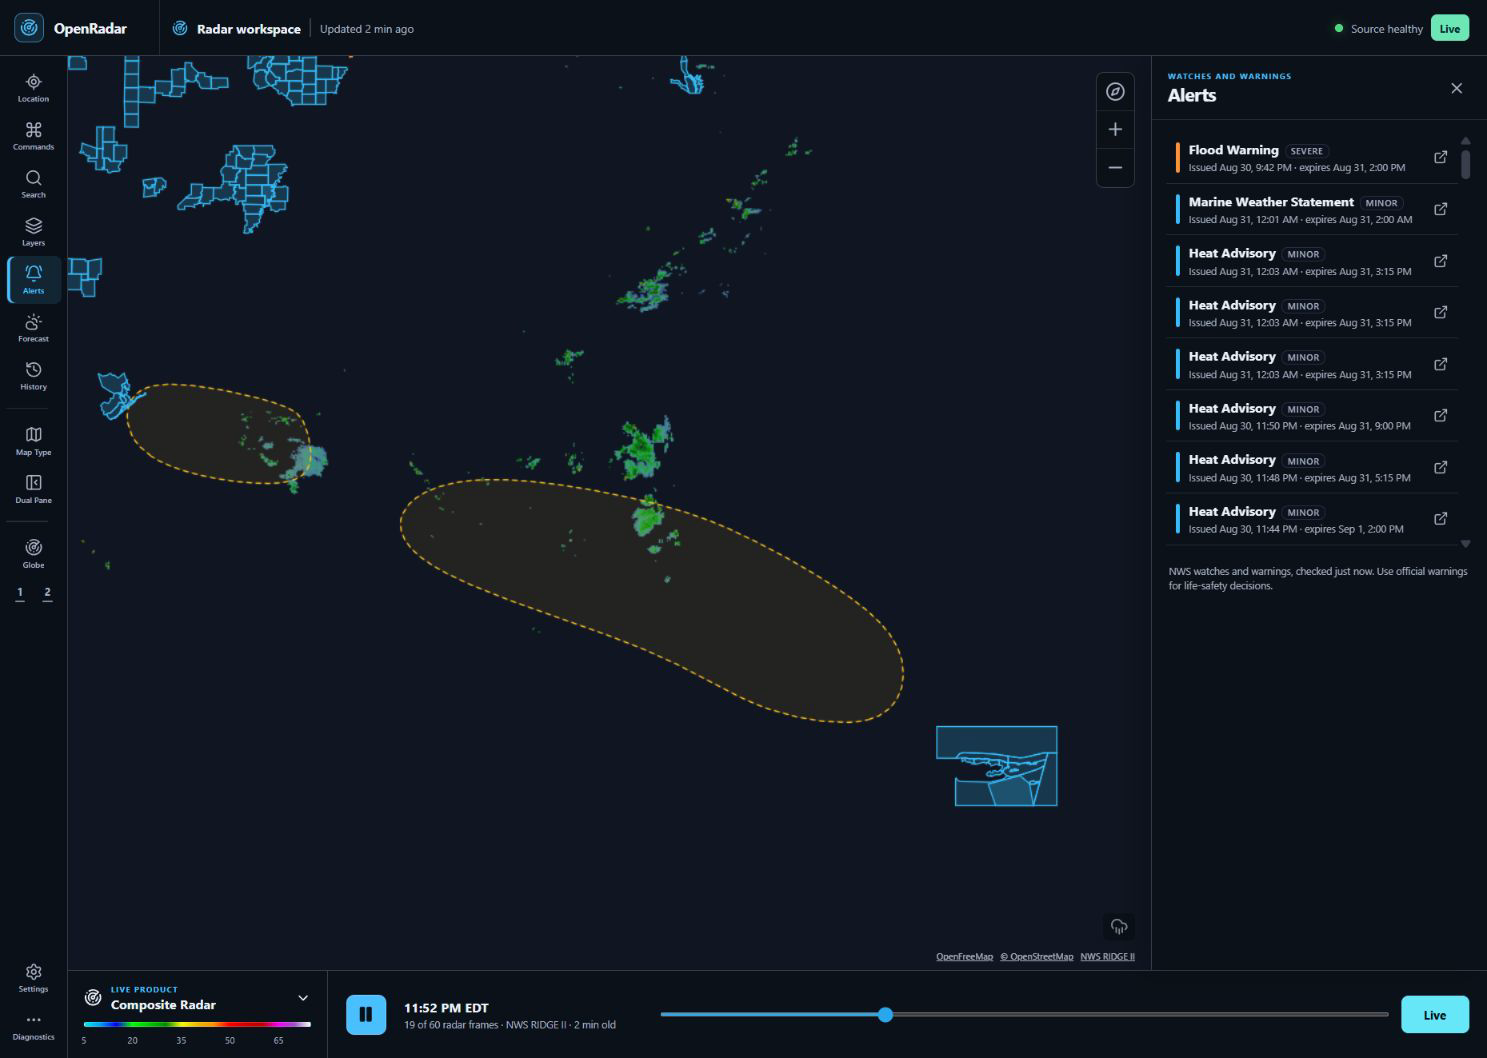
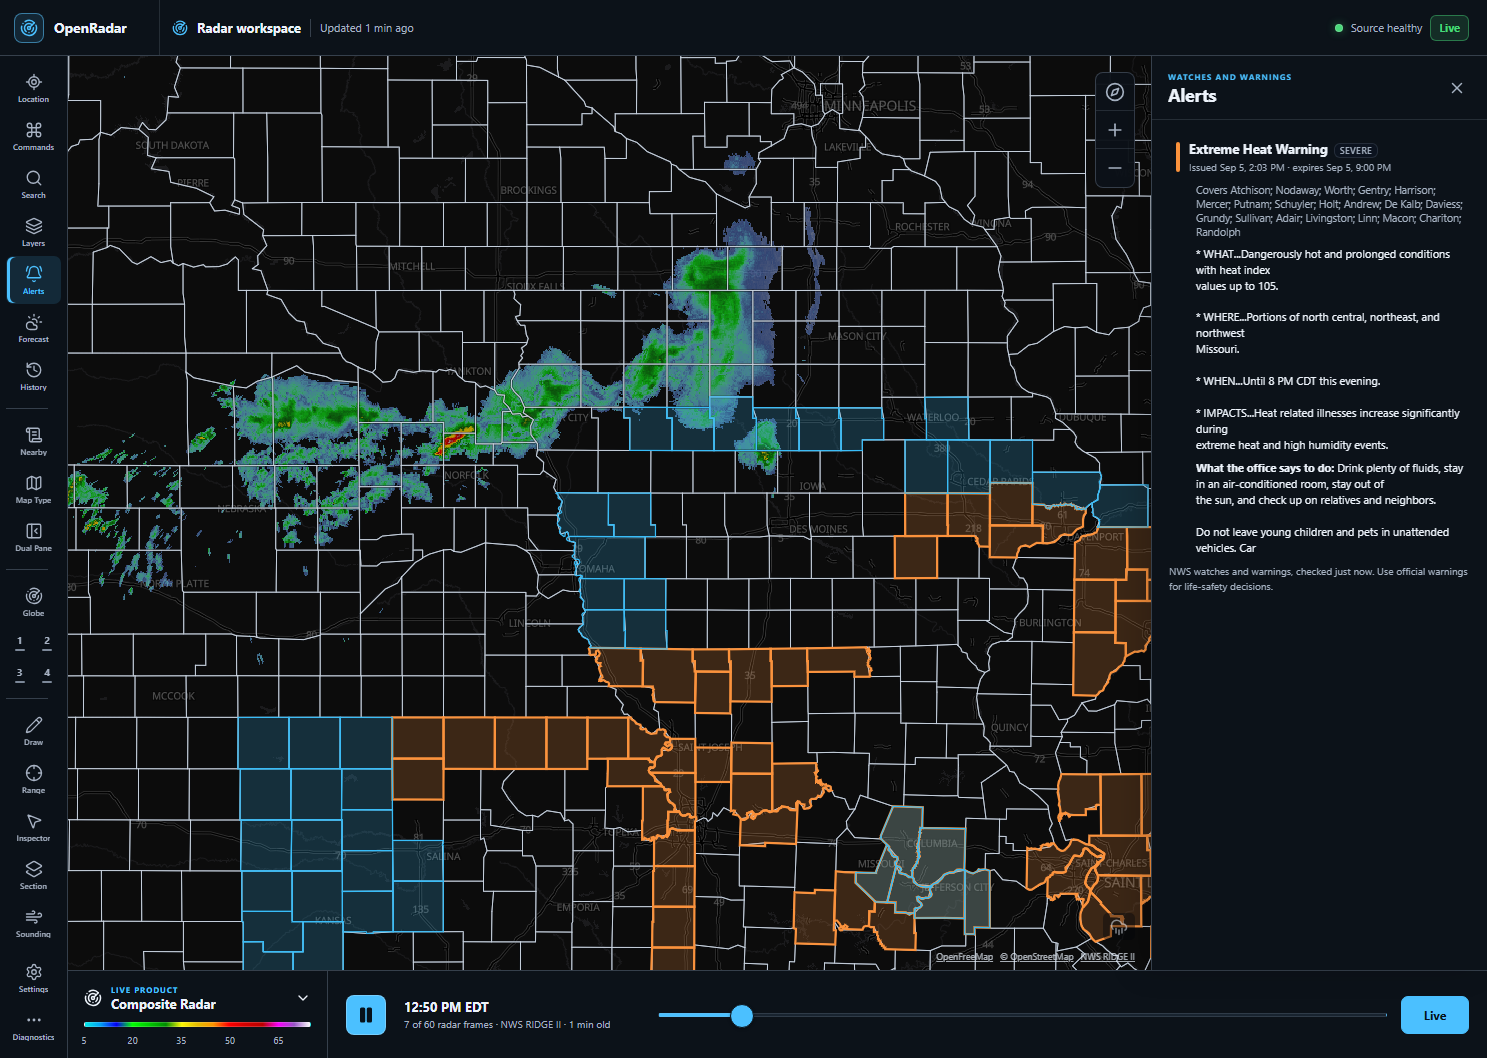
Re-take the README picture, and write down how
The one in the repo was from 2026-08-31 and showed an app that no longer
exists: before the light-theme repairs, before French, before the rail
rework and the accent changes. A first reader was looking at the wrong
product.

The capture is a run rather than a habit now, so the next visual change
can re-take it in one command instead of somebody remembering how it was
framed: the same camera over Des Moines, north up, at the width the
layout questions are already asked at, with the greeting suppressed
before the app loads rather than clicked out of the way.

It is the one thing in the end-to-end suite that does not stub the
services, and it has to be. Taken the way the rest of the suite runs,
the picture is a black rectangle where the map should be: no basemap, no
mosaic, and a stale-frame warning across the bottom. A screenshot of an
app with no map in it is worse than an out-of-date one, because it looks
deliberate. So it runs against the live services, and it refuses to
write a file whose map came out one flat colour.

Skipped unless asked for, because it writes a committed file and the
weather underneath is different every time.

diff --git a/e2e/screenshot.spec.ts b/e2e/screenshot.spec.ts
@@ -1,0 +1,102 @@
+import { expect, test } from "@playwright/test";
+
+/**
+ * The picture the README leads with, taken the same way every time.
+ *
+ * It had been captured by hand once and then went stale: the file in the repo
+ * predated the light-theme repairs, French, the rail rework and the accent
+ * changes, and a first reader was looking at an app that no longer existed.
+ * Written down as a run rather than a habit, so the next visual change can
+ * re-take it in one command instead of somebody remembering how it was framed.
+ *
+ * Skipped unless asked for. It writes a committed file, which is not something
+ * an ordinary suite run should do, and the map underneath is live weather: a
+ * pixel comparison would fail on the sky.
+ *
+ * It is also the one thing here that does NOT stub the services. The rest of
+ * the suite routes them so a run is deterministic, and a picture taken that
+ * way is a picture of a black rectangle where the map should be: no basemap
+ * tiles, no mosaic, and a stale-frame warning across the bottom. A screenshot
+ * of an app with no map in it is worse than an out-of-date one, because it
+ * looks deliberate.
+ *
+ *     OPENRADAR_SHOOT=1 npx playwright test e2e/screenshot.spec.ts --project=chromium
+ */
+const WANTED = Boolean(process.env.OPENRADAR_SHOOT);
+
+/** What the README's alt text describes, and what the listing points at. */
+const SHOT = "assets/screenshots/openradar-main.png";
+
+/** How long the live basemap and the mosaic are given to arrive. */
+const TILES_MS = 8_000;
+
+test.describe("the README's picture", () => {
+  test.skip(!WANTED, "set OPENRADAR_SHOOT=1 to re-take it");
+  // The width the layout questions are asked at, and the shape the listing
+  // and the README were written around.
+  test.use({ viewport: { width: 1487, height: 1058 } });
+
+  test("is the dark workspace with the alerts panel open", async ({ page }) => {
+    // The greeting and the first-run hints are for a first run, and this is
+    // not one. Written before the app loads rather than dismissed after, so
+    // nothing has to be clicked out of the way of the picture.
+    await page.addInitScript(() => {
+      window.localStorage.setItem(
+        "openradar.settings",
+        JSON.stringify({
+          schemaVersion: 2,
+          seenWelcome: true,
+          seenReveal: true,
+          layers: { counties: true },
+        }),
+      );
+    });
+    // Des Moines, north up, at a zoom where the mosaic and the county lines
+    // both read: the same camera every time, so two captures differ by what
+    // changed in the app rather than by where somebody had panned to.
+    await page.goto("/?lon=-93.7&lat=41.7&zoom=6&bearing=0&pitch=0");
+    await expect(page.getByRole("application")).toBeVisible();
+
+    await page.getByRole("button", { name: "Alerts", exact: true }).click();
+    await expect(page.locator(".surface-panel")).toBeVisible();
+
+    // The map has to have arrived. A capture taken while the basemap is still
+    // coming down is the black rectangle this was written to stop shipping.
+    await expect(page.locator(".maplibregl-canvas")).toBeVisible();
+    await page.waitForTimeout(TILES_MS);
+    const drawn = await page.evaluate(() => {
+      const canvas =
+        document.querySelector<HTMLCanvasElement>(".maplibregl-canvas");
+      if (!canvas) return 0;
+      const shrunk = document.createElement("canvas");
+      shrunk.width = 64;
+      shrunk.height = 64;
+      const context = shrunk.getContext("2d");
+      if (!context) return 0;
+      context.drawImage(canvas, 0, 0, 64, 64);
+      const { data } = context.getImageData(0, 0, 64, 64);
+      const shades = new Set<string>();
+      for (let at = 0; at < data.length; at += 4) {
+        shades.add(`${data[at]},${data[at + 1]},${data[at + 2]}`);
+      }
+      return shades.size;
+    });
+    expect(
+      drawn,
+      "the map is one flat colour, so the tiles never arrived",
+    ).toBeGreaterThan(20);
+
+    await page.screenshot({ path: SHOT });
+
+    // A capture of a window that never finished laying out is worse than a
+    // stale one, because it looks deliberate.
+    const room = await page.evaluate(() => ({
+      width: window.innerWidth,
+      height: window.innerHeight,
+      sideways:
+        document.documentElement.scrollWidth -
+        document.documentElement.clientWidth,
+    }));
+    expect(room).toEqual({ width: 1487, height: 1058, sideways: 0 });
+  });
+});

diff --git a/ROADMAP.md b/ROADMAP.md
@@ -130,13 +130,6 @@ Added by the 2026-09-02 research pass (`RESEARCH.md` of the same date carries th
   Acceptance: Every key in `en.ts` has a German string; the clipping test passes in German at 1024x720; a German reader gets km/h, °C and comma decimals by default; the README and listings name four languages.
   Complexity: L
 
-- [ ] AUD-200 (P3): Re-capture the README screenshot
-  Why: `assets/screenshots/openradar-main.png` is from 2026-08-31 and predates the light-theme repairs, French, the rail rework, the dark form controls and the accent changes described in the 0.8.0 changelog; a stale picture misleads the first reader.
-  Evidence: `git log -1 -- assets/screenshots` (2026-08-31, "Rebuild the weather workspace around the map"); `CHANGELOG.md` 0.8.0 visual entries.
-  Touches: `assets/screenshots/openradar-main.png`, `README.md` alt text, `docs/listings.json` screenshot reference.
-  Acceptance: A fresh 1487x1058 capture of the dark workspace with Alerts open, taken headless per `screenshots.md`, replaces the file in the same commit as the next visual change; the alt text names the state.
-  Complexity: S
-
 ## Research-Driven Additions, 2026-09-03
 
 Added by the 2026-09-03 research pass (`RESEARCH.md` of the same date carries the evidence). Numbered `AUD-206` onward. Every host named below is either already in `ALLOWED_HOSTS` or is named in the item, and any new one needs the ledger row, the CSP entry and a `check:live` contract like the rest. Nothing here outranks an open audit item of the same priority.

diff --git a/README.md b/README.md
@@ -11,7 +11,7 @@
 
 [Download](#install) · [What it does](#what-it-does) · [Build from source](#build-from-source) · [Where the data comes from](#where-the-data-comes-from)
 
-<img width="1487" height="1058" alt="OpenRadar alerts workspace" src="assets/screenshots/openradar-main.png" />
+<img width="1487" height="1058" alt="The OpenRadar workspace in its dark theme: the national radar mosaic over county lines across Iowa and Nebraska, watch and warning polygons beside it, and the Alerts panel open on an Extreme Heat Warning" src="assets/screenshots/openradar-main.png" />
 
 </div>
 
